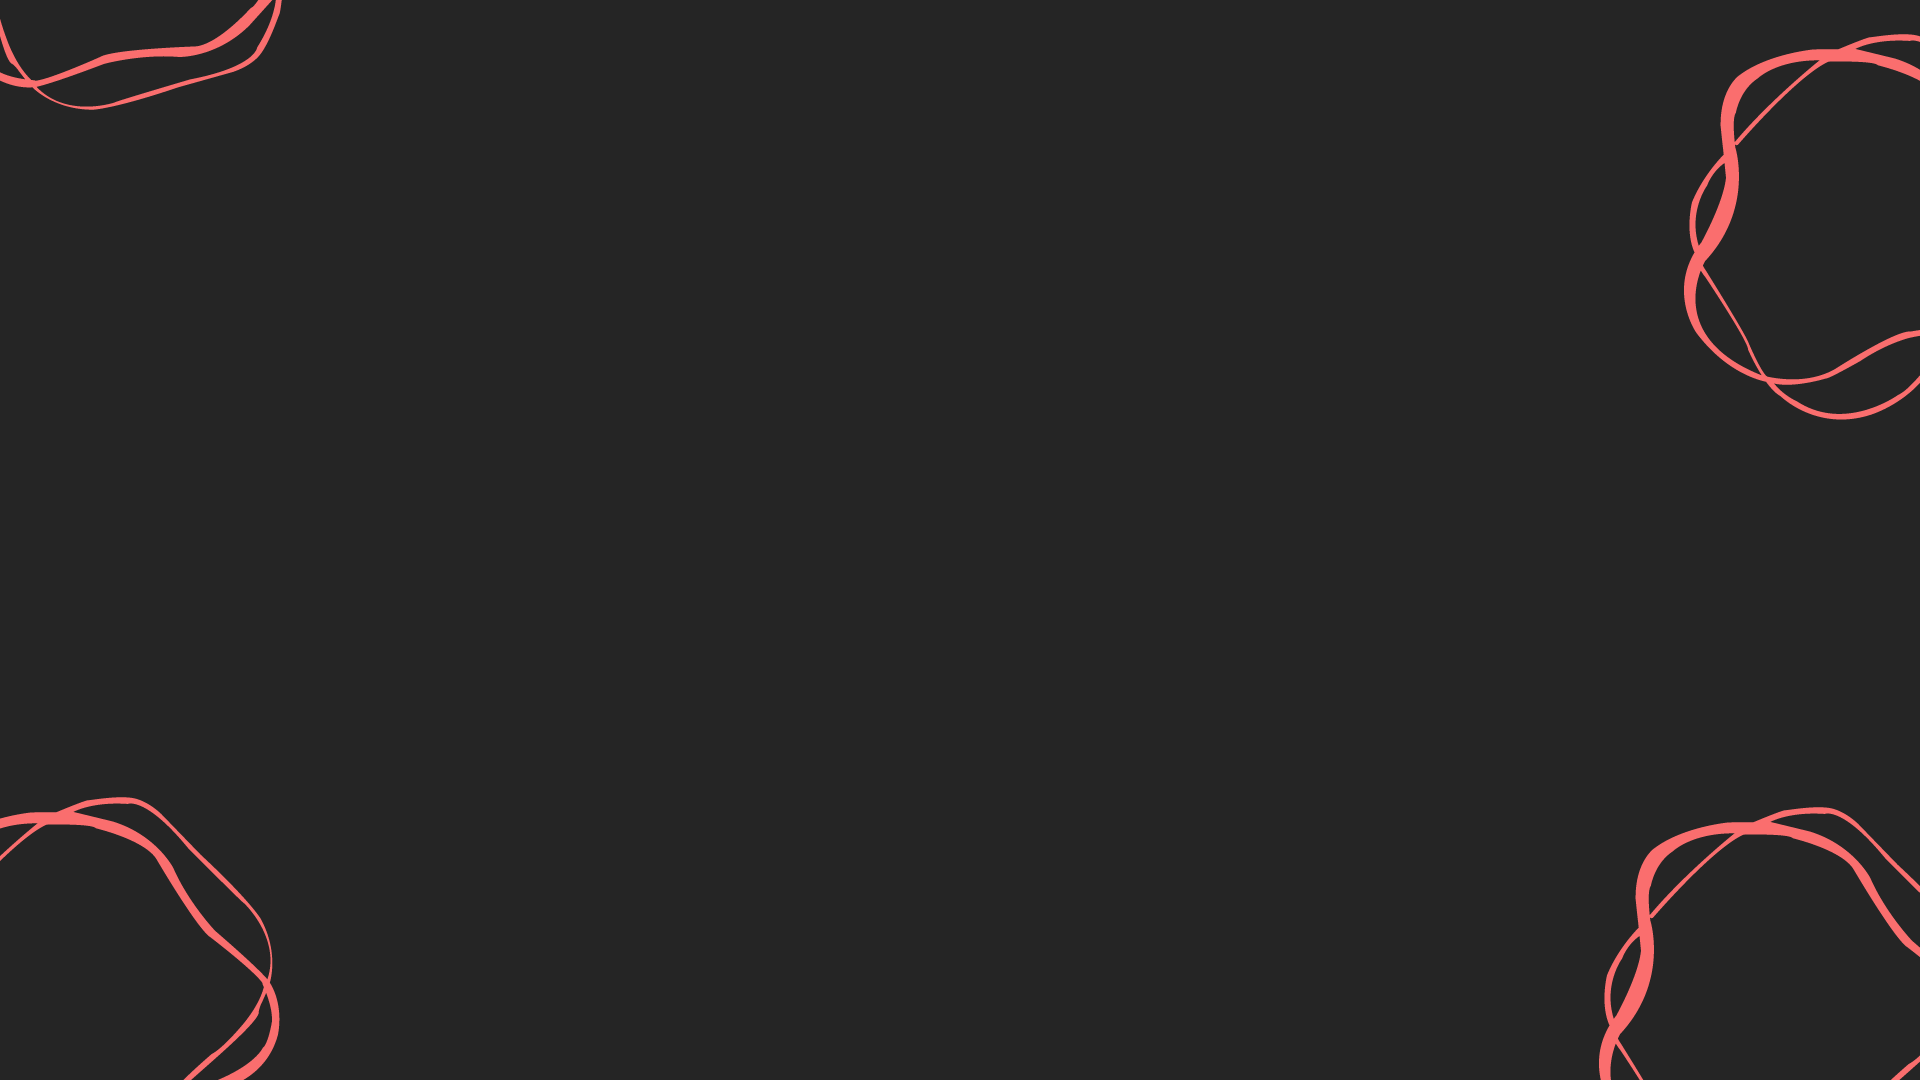
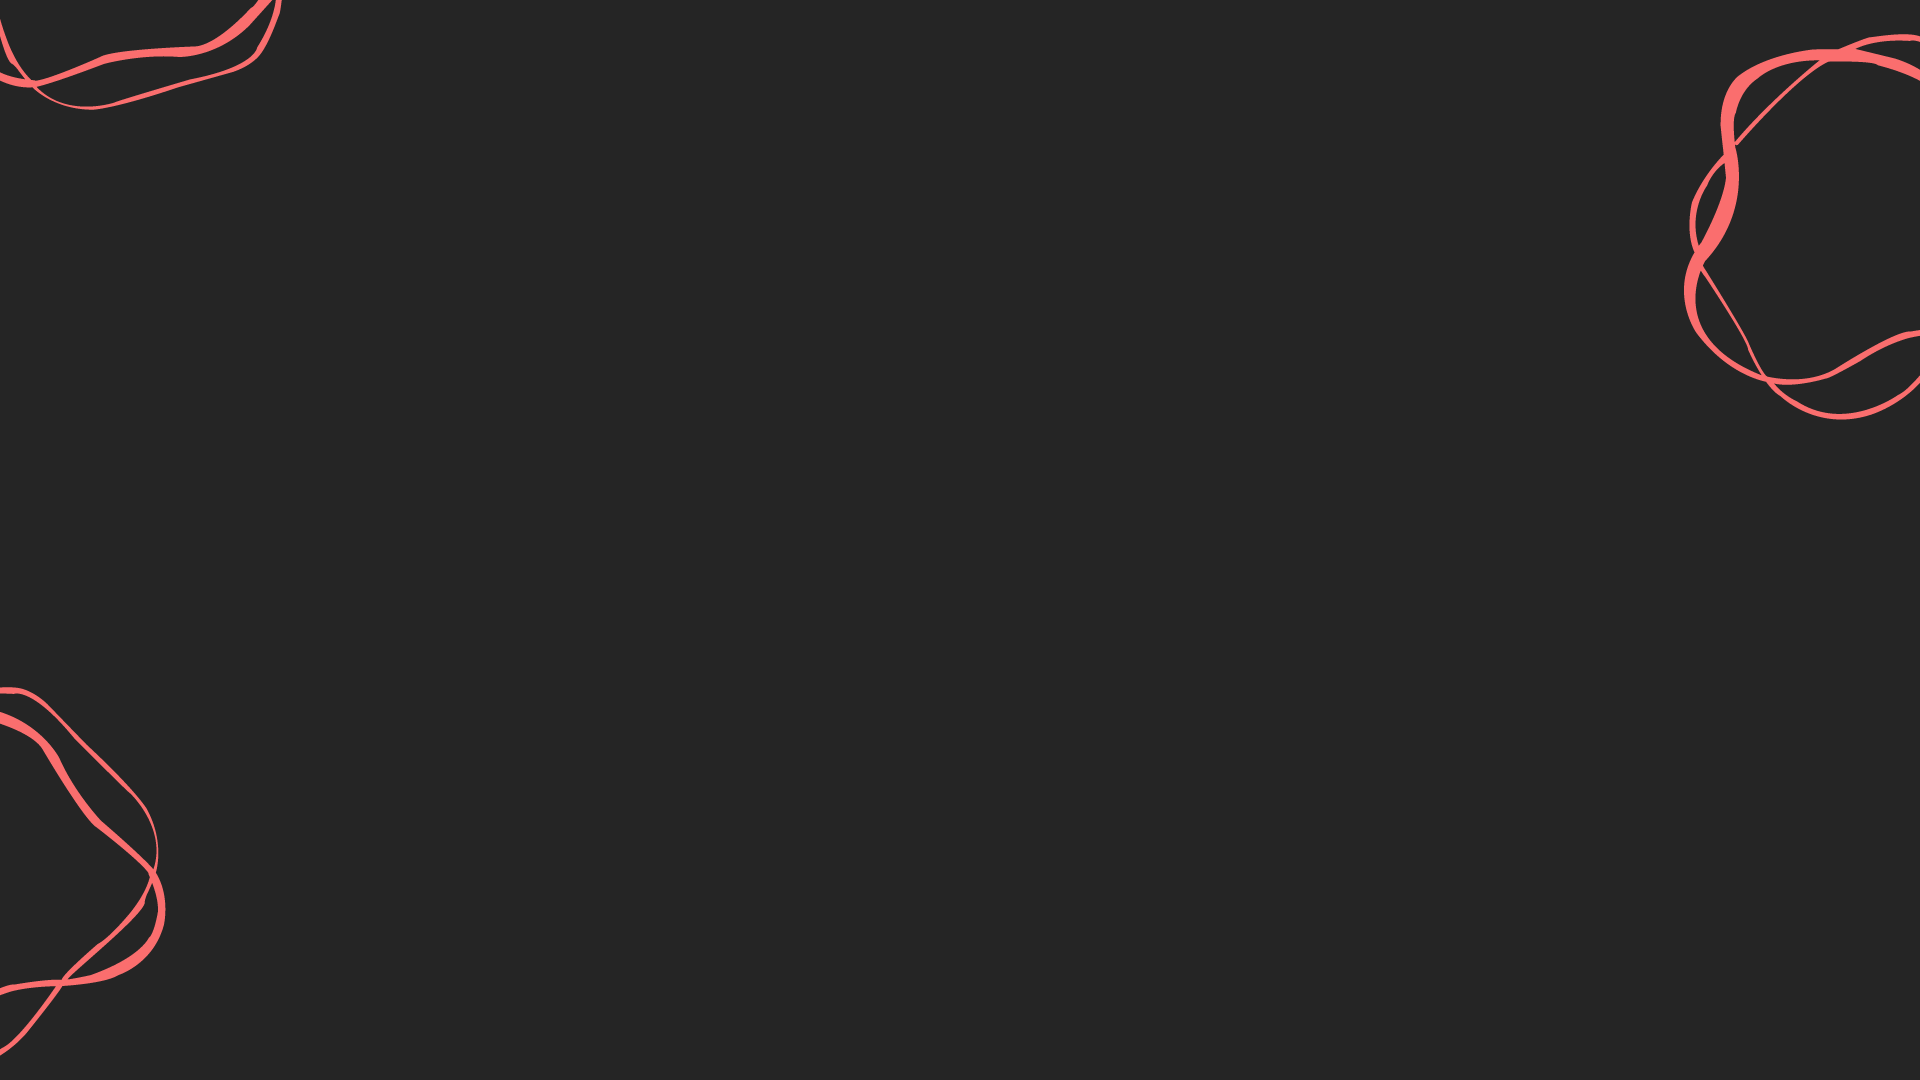
Remove some pattern from project and experience page

diff --git a/src/pages/Projects/Projects.js b/src/pages/Projects/Projects.js
@@ -131,7 +131,8 @@ const Projects = forwardRef((props, ref) => {
   const handleOnChangeCard = () => {
     setNextLevelMode(!nextLevelMode);
     if (isNotDesktop) setCardPerPage(3);
-    else setCardPerPage(cardPerPage === 3 ? 4 : 3);
+    // on toggle show 3 card perpage if on phone
+    else setCardPerPage(cardPerPage === 3 ? 4 : 3); // if not on phone toggle between 3 and 4
   };
   const handleOnArrowForward = () => {
     if (page < sum_page - 1) setPage(page + 1);
@@ -191,7 +192,8 @@ const Projects = forwardRef((props, ref) => {
 const Wrapper = styled.div`
   ${spacing}
   ${palette}
-  background: url("/images/Project_v2.png") no-repeat;
+  /* background: url("/images/Project_v2.png") no-repeat; */
+  background-color:#252525;
 
   -webkit-background-size: cover;
   -moz-background-size: cover;

diff --git a/src/components/ProjectCard/ProjectCard.js b/src/components/ProjectCard/ProjectCard.js
@@ -119,7 +119,7 @@ const CardWrapper = styled.div`
         min-width:225px;
         max-width:300px;
         min-height:50px;
-        max-height:200px;
+        max-height:150px;
         border-radius: 3px;
         justify-content:space-evenly;
         margin-bottom:10vw;
@@ -182,8 +182,8 @@ const StyledTextFieldMedia = styled(TextField)`
     /* screen width is less than 768px (medium) */
         min-width:100px;
         max-width:180px;
-        min-height:100px;
-        max-height:150px;
+        min-height:60px;
+        max-height:100px;
         
         
     `};

diff --git a/src/shared/theme.js b/src/shared/theme.js
@@ -3,6 +3,7 @@ const themes = {
     spacing: 4,
     palette: {
       primary: "#007ACA",
+      navbarcolor: "#1E1E1E",
       fontblue: "#3EA2FF",
       primaryGreen: "#4D8400",
       // Neutrals
